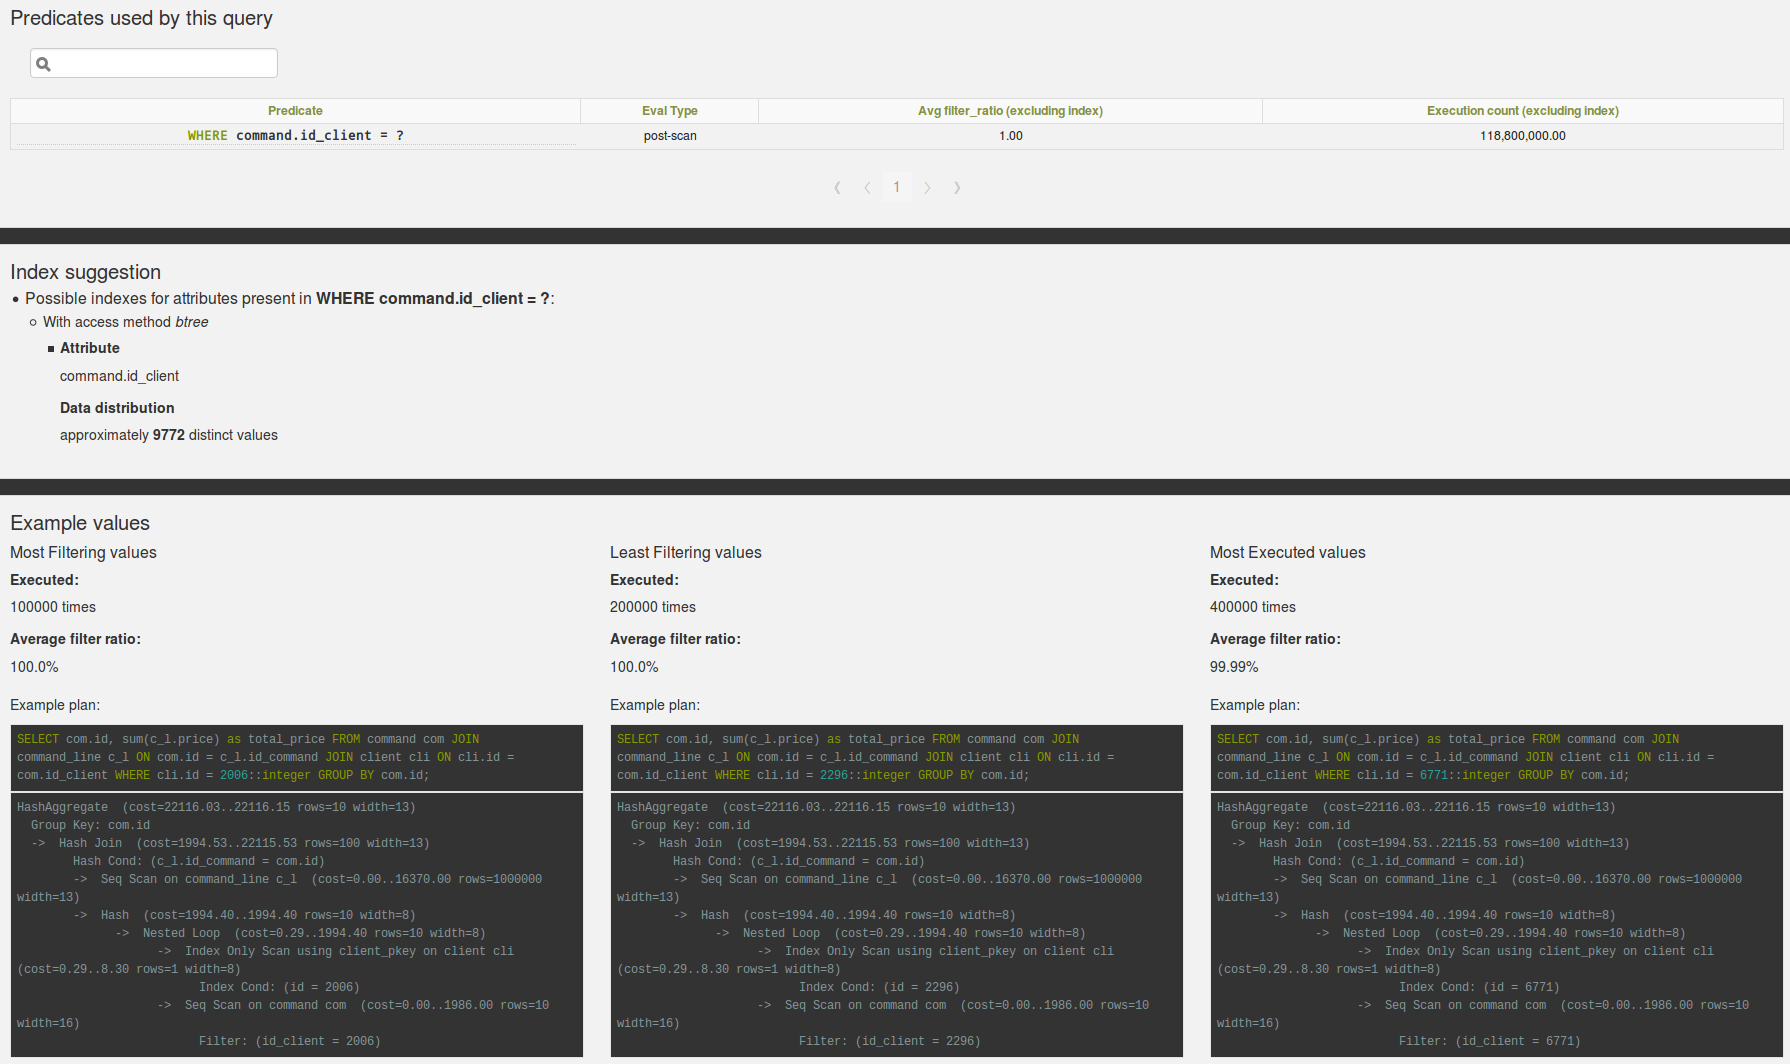
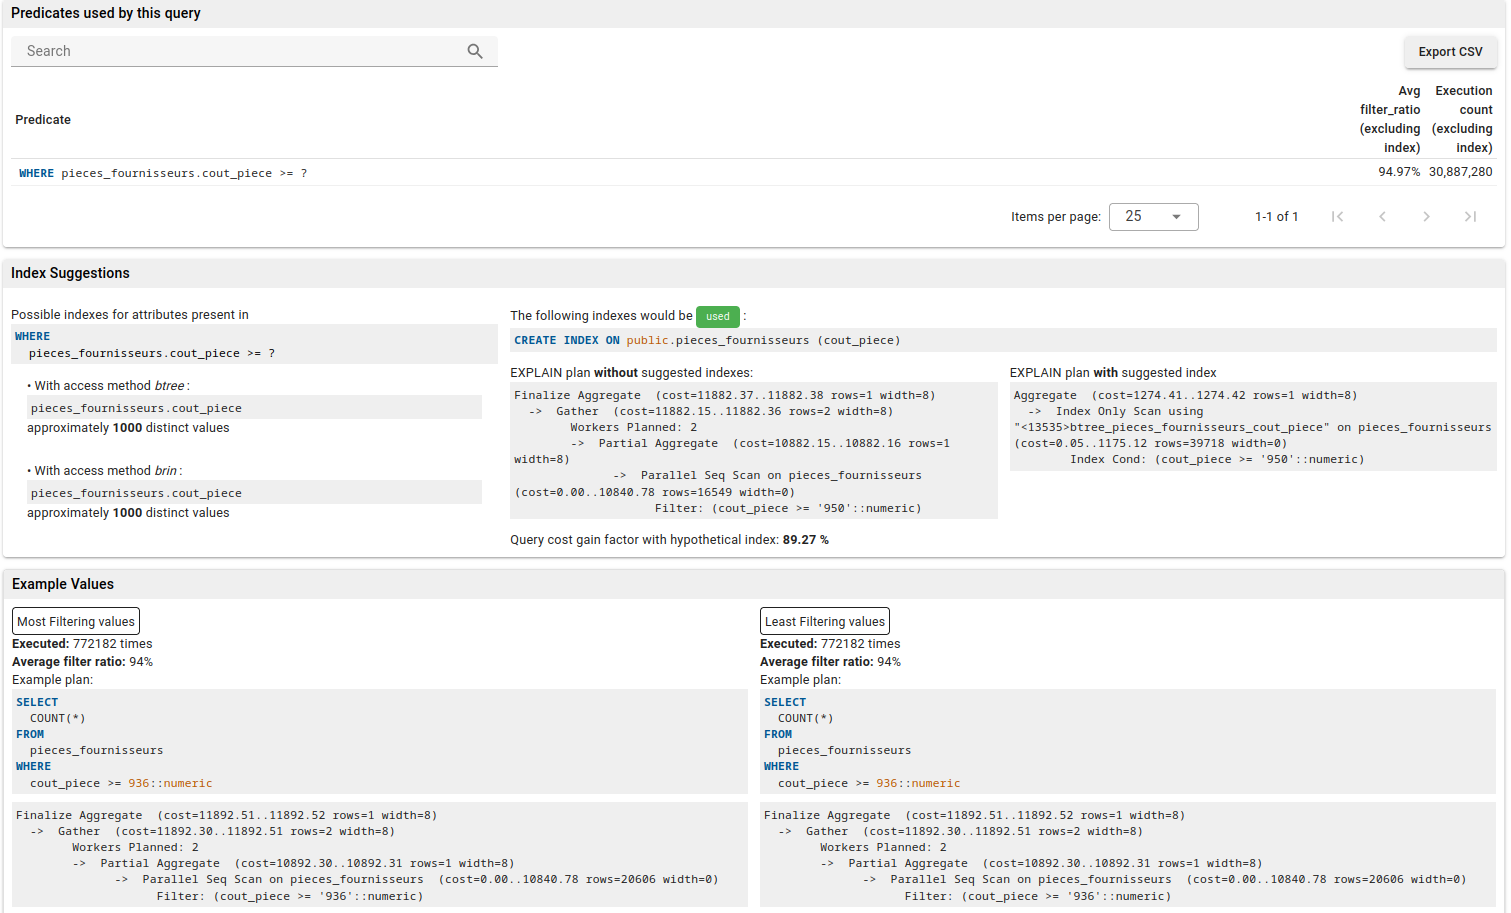
Update all screenshots
Since v5 changes the UI a lot, let's add new screenshots to reflect the UI
quality.

Also update pg_track_settings documentation a bit since the new UI removed one
of the feature for the setting events.

diff --git a/docs/components/stats_extensions/pg_track_settings.rst b/docs/components/stats_extensions/pg_track_settings.rst
@@ -44,9 +44,8 @@ will be filtered by the database currently displayed if the current page is
 displaying a specific database.  This timeline will be displayed on every graph
 of the page, to easily check if this change had any visible impact.
 
-Details of the changes will be displayed on mouseover.  You can click on any
-event on the timeline to make the event stay displayed, and draw a vertical
-line on the underlying graph.
+Details of the changes will be displayed on mouseover, along with a vertical
+line to show exactly when the change happened.
 
 .. image:: /images/pg_track_settings.png
    :width: 800
